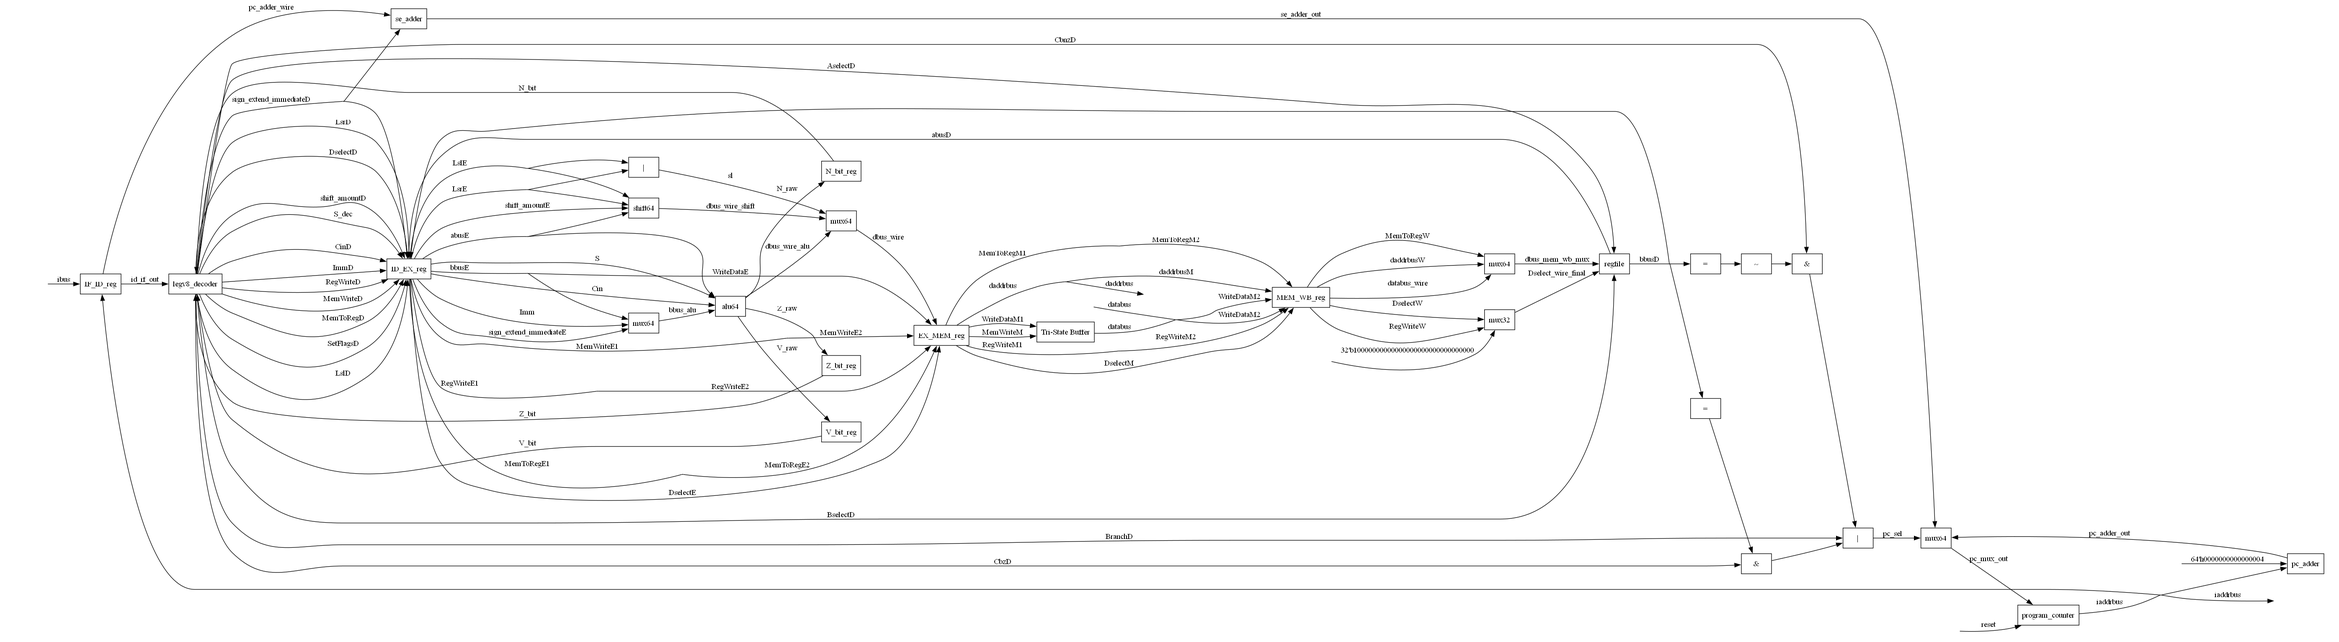
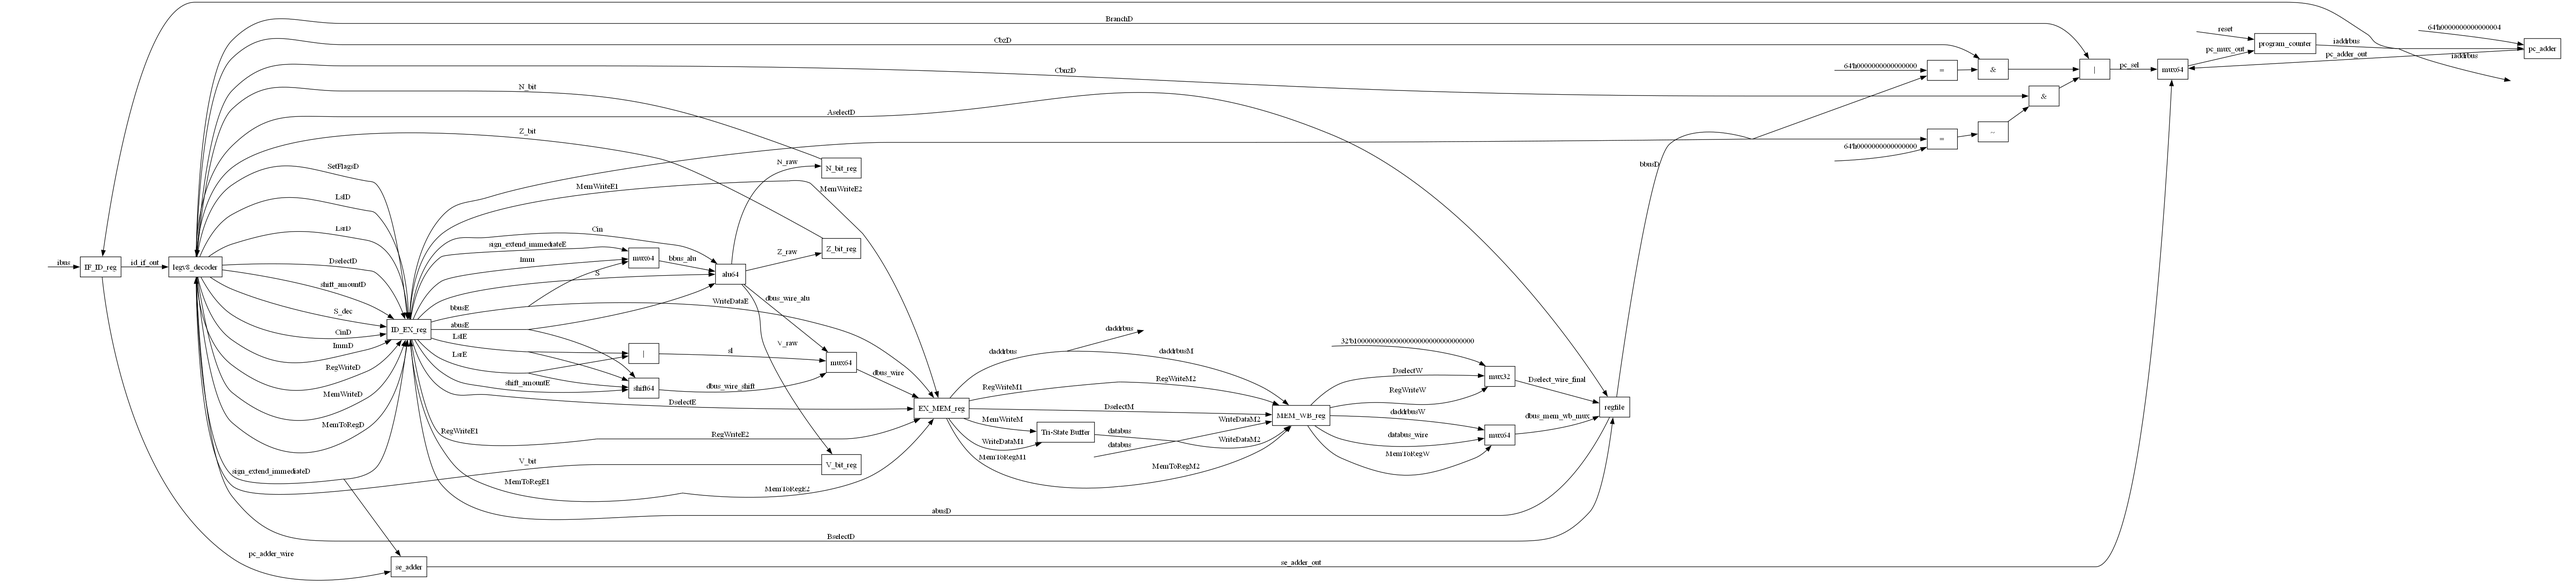
num inputs to gates

diff --git a/schematic_generator.py b/schematic_generator.py
@@ -193,7 +193,10 @@ class Schematic:
       elif type(current_level_content) == MultiInputGate:
         for gate_input in current_level_content.inputs: self.gate_level_up(dot, gate_node_name, gate_input, level+1, wire_name)
     else:
-      if current_level_content not in self.gate_nodes.keys(): self.gate_nodes[current_level_content] = [gate_name_below]
+      if current_level_content[0].isdigit():
+        dot.node(f'num/{current_level_content}/{gate_name_below}', style='invis')
+        dot.edge(f'num/{current_level_content}/{gate_name_below}', gate_name_below, label=current_level_content)
+      elif current_level_content not in self.gate_nodes.keys(): self.gate_nodes[current_level_content] = [gate_name_below]
       else: self.gate_nodes[current_level_content].append(gate_name_below)
 
   def draw_schematic(self):
